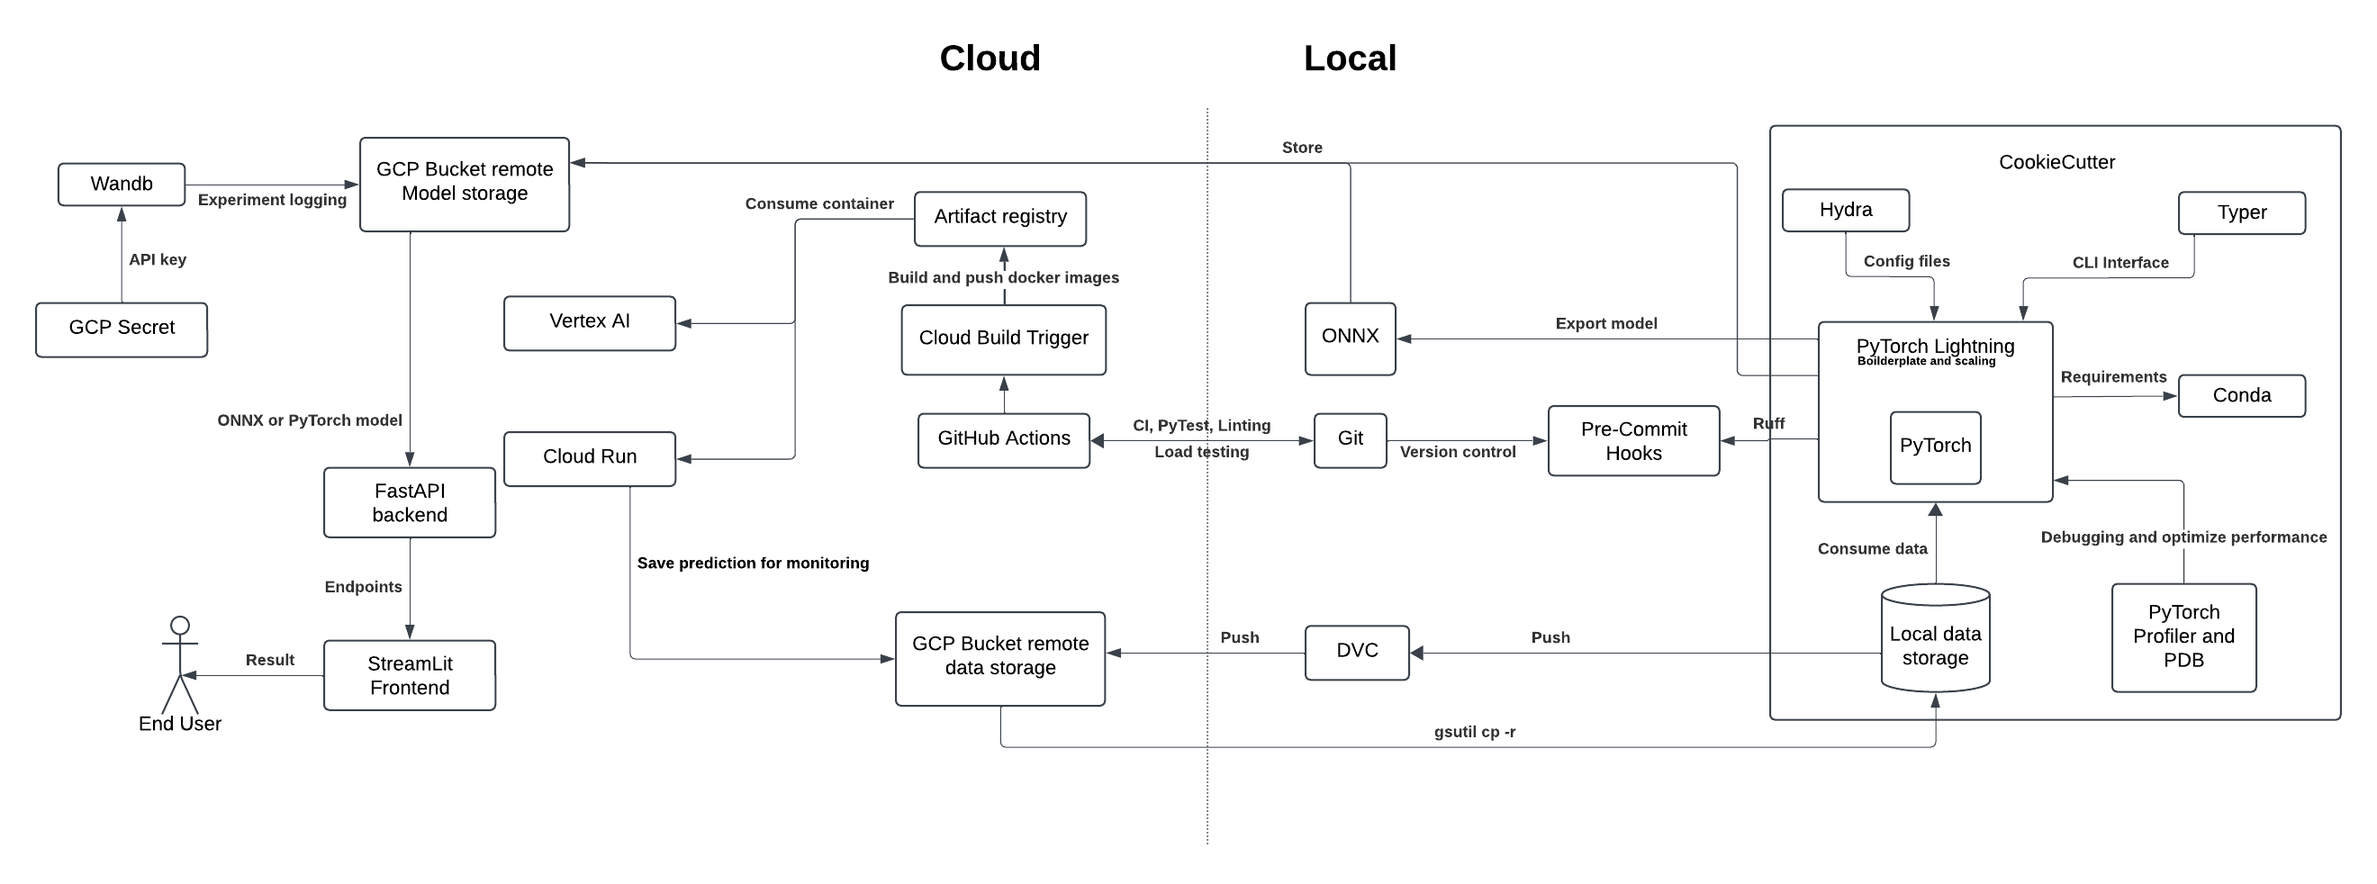
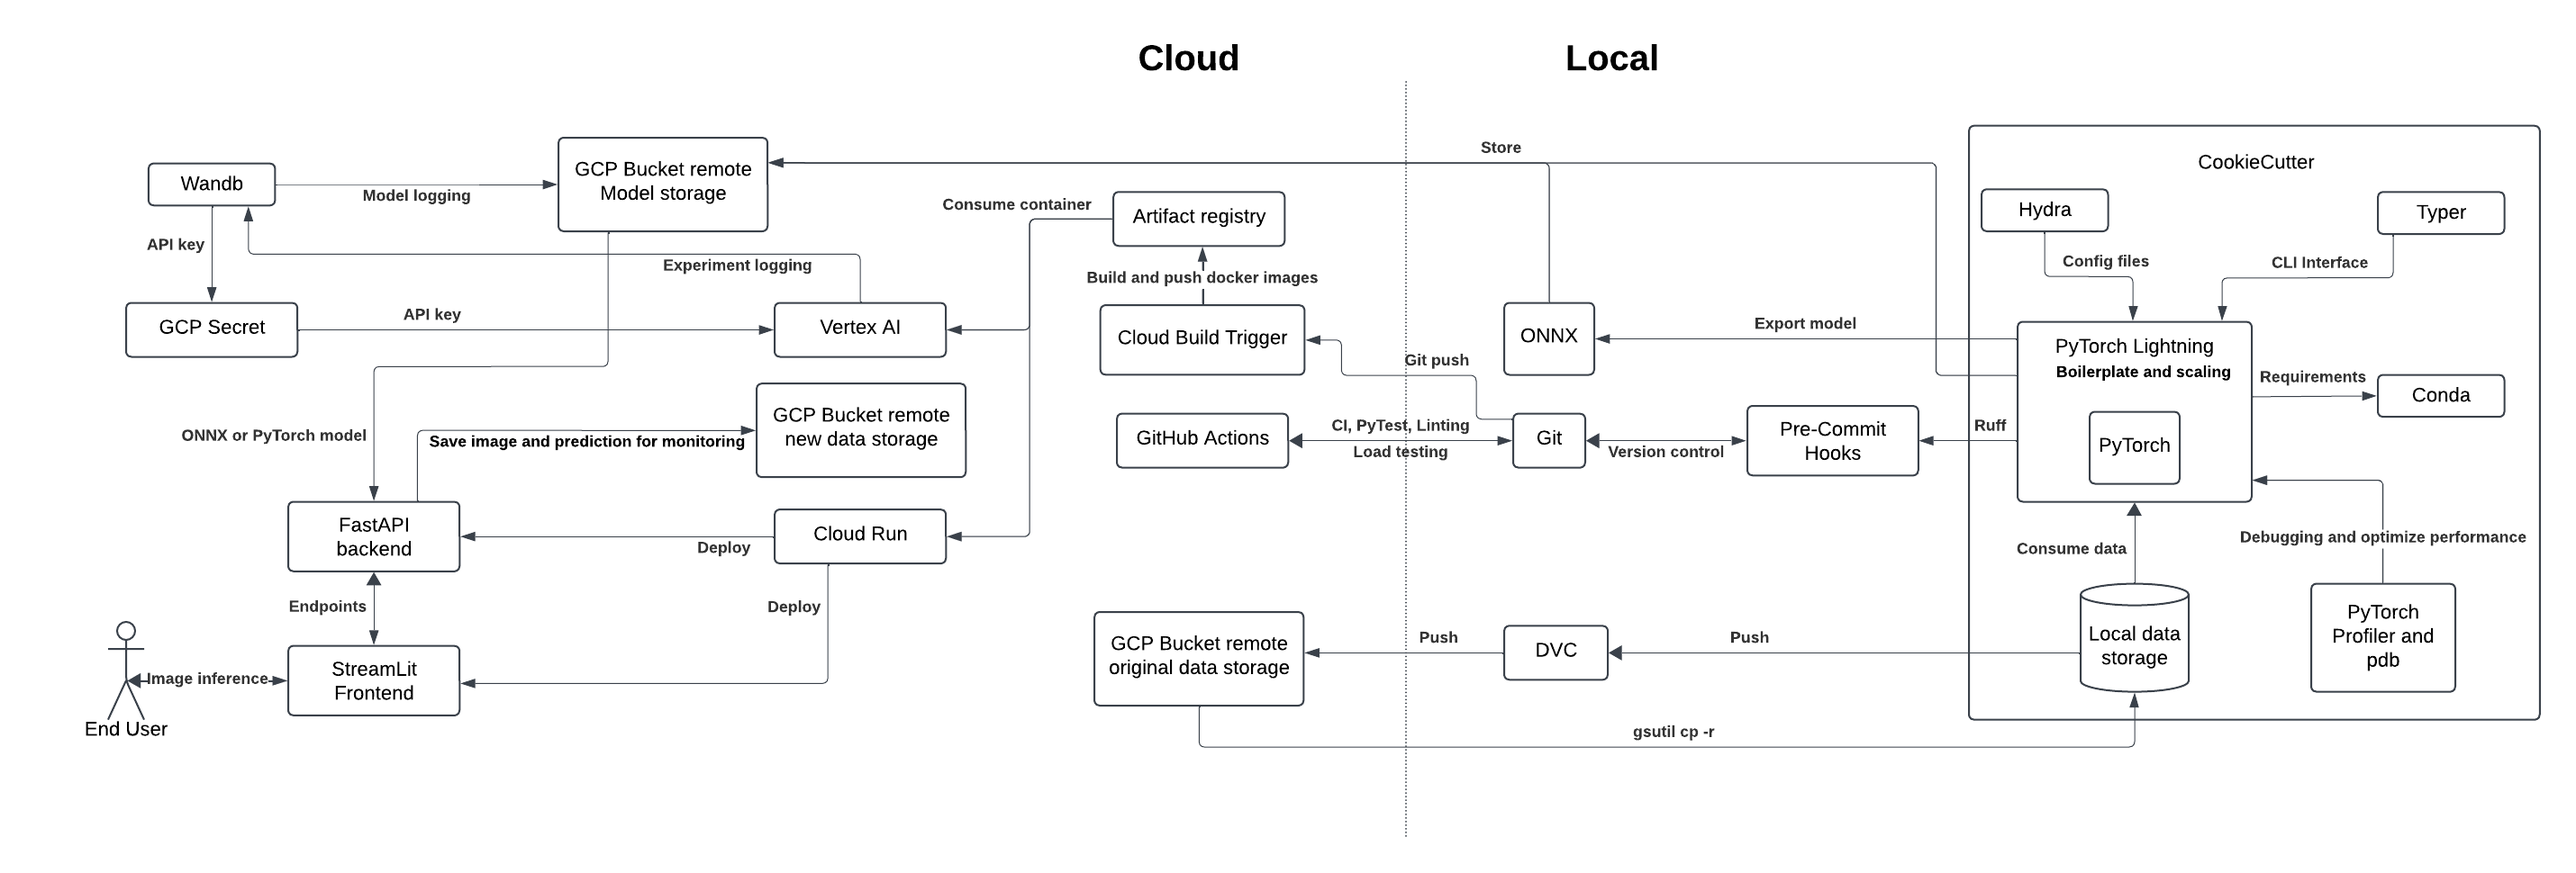
Upload new image of MLOPS stack

diff --git a/reports/README.md b/reports/README.md
@@ -625,7 +625,7 @@ The model can be configured in different ways depending on local or cloud-based 
 
 Once we have our model, we can convert it to ONNX to make it more lightweight and compatible with many other deep learning frameworks. We then store both our PyTorch model and ONNX model in a Google Cloud Bucket. This bucket also stores experimental loggings from Wandb. From this bucket, our FastAPI fetches the models depending on the requested endpoint from the frontend, which displays the result for the end-user.
 
-When pushing to Git, our GitHub actions execute their workflows. These workflows include running all the unit, integration, and load tests, linting every file, and triggering the process of building and pushing our docker images to the artifact registry. From the artifact registry, the Cloud Run and Vertex AI can consume our containers. These can then save their predictions in the Google Cloud data storage for monitoring.
+When pushing to Git, our GitHub actions execute their workflows. These workflows include running all the unit, integration, and load tests, linting every file, and triggering the process of building and pushing our docker images to the artifact registry. From the artifact registry, the Cloud Run and Vertex AI can consume our containers. Tthe Cloud Run deploys both our back- and frontend. These can then save their image and predictions in another Google Cloud data storage for monitoring.
 
 ![alt text](MLOPS-stack.png)
 
